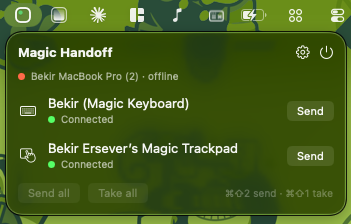
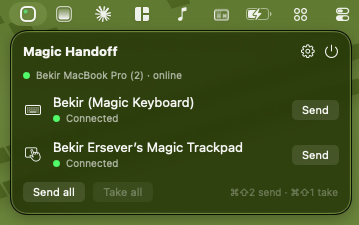
README: menu screenshot with the other Mac online

Changed region(s): [[0.0, 0.0, 1.0, 1.0], [0.0855, 0.8125, 0.2564, 0.9062], [0.2849, 0.8125, 0.3989, 0.875]]

diff --git a/README.md b/README.md
@@ -27,7 +27,7 @@ Apple's Magic peripherals only talk to one Mac at a time. If you use a laptop an
 </p>
 
 <p align="center">
-  <img src="docs/assets/menu.png" width="358" alt="The Magic Handoff menu">
+  <img src="docs/assets/menu.png" width="359" alt="The Magic Handoff menu">
   <br>
   <sub>The menu: the other Mac's status, your devices, and Send / Take.</sub>
 </p>
